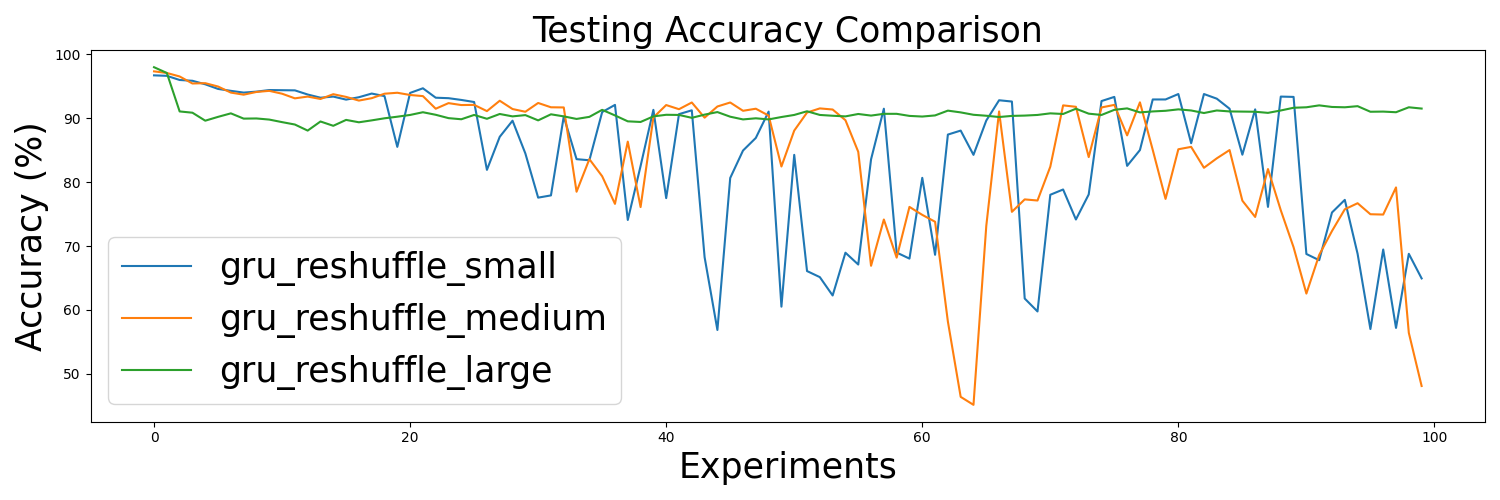
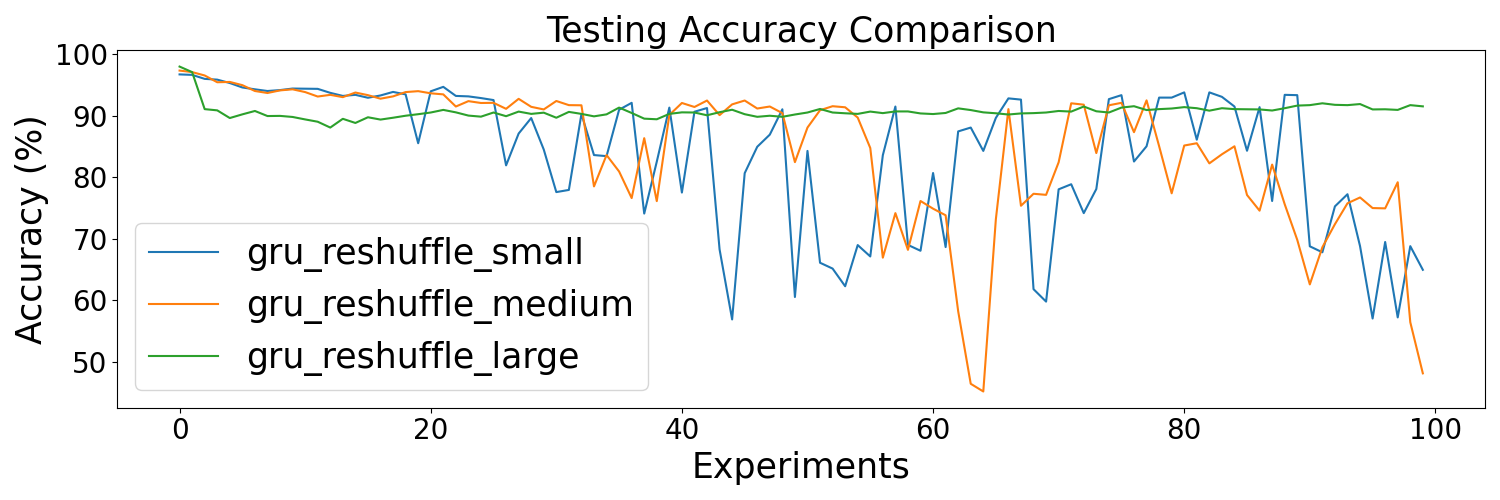
Compare code final, font sizing

diff --git a/src/utils/plot.py b/src/utils/plot.py
@@ -181,6 +181,8 @@ def plot_comparison_full_length(
         plt.plot(data[:, -1])
 
     plt.legend(labels, fontsize=font_size, loc='lower left')
+    plt.xticks(fontsize=font_size-5)
+    plt.yticks(fontsize=font_size-5)
     plt.tight_layout()
 
     if not os.path.exists(save_path):
